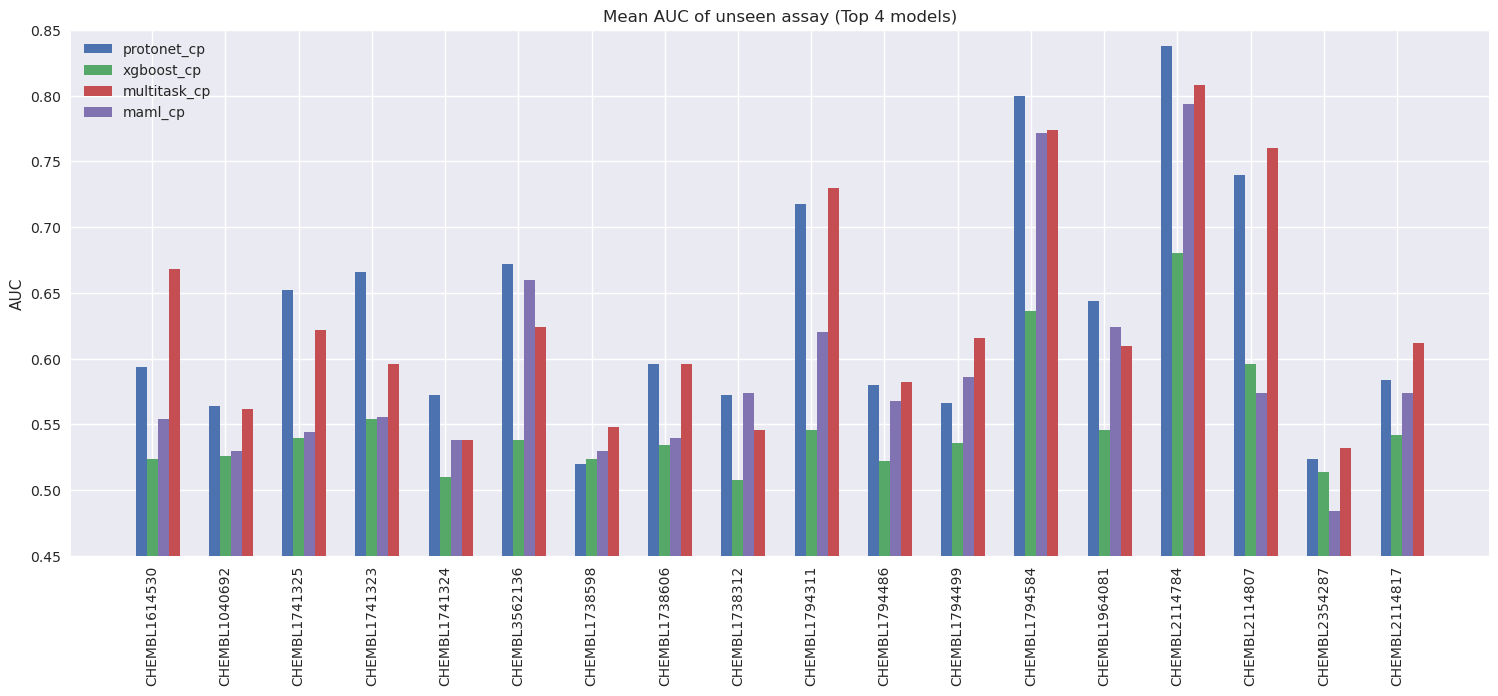
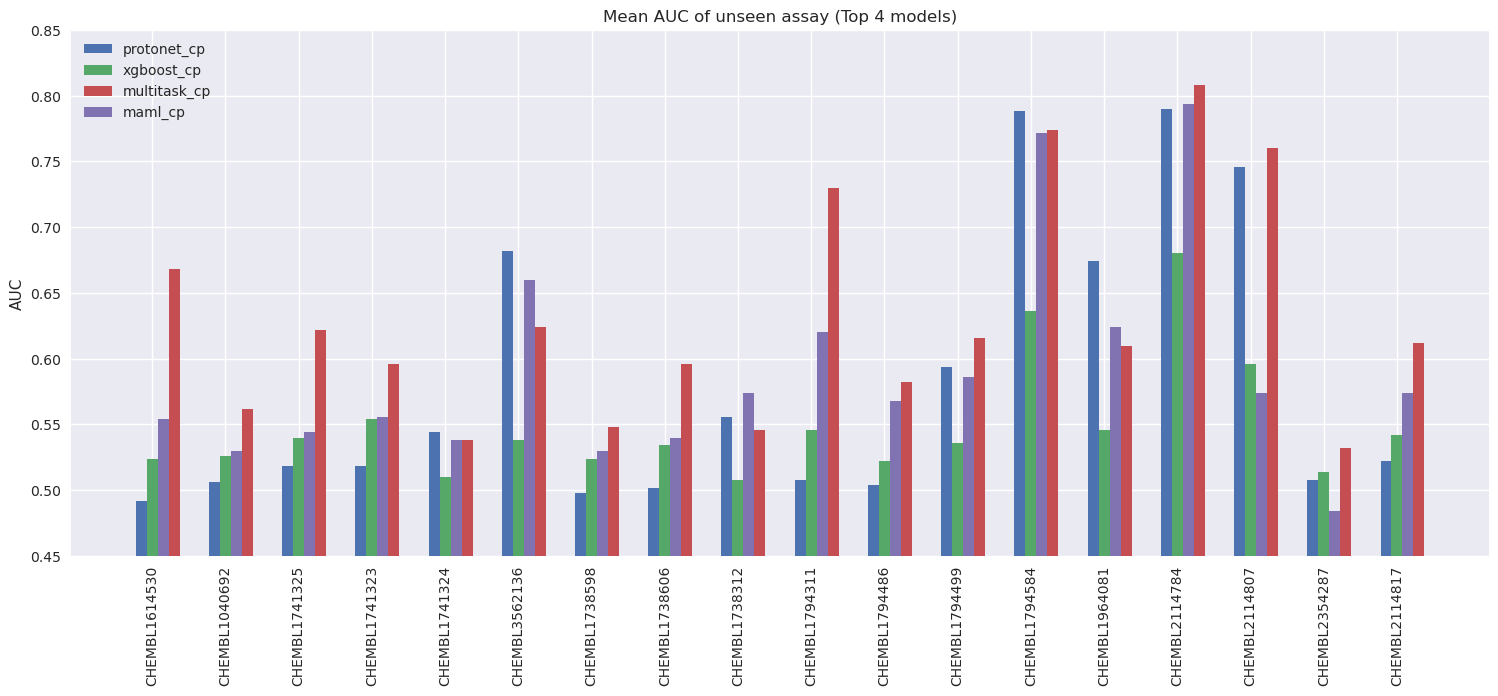
06.03.23

diff --git a/fsl_cp/train_test_protonet_cp.py b/fsl_cp/train_test_protonet_cp.py
@@ -270,7 +270,7 @@ def main(
         # Load model.
         input_shape=len(train_data[3][0])
         backbone = FNN_Relu(num_classes=512, input_shape=input_shape)
-        model = ProtoNet(backbone, dist='CosineSimilarity').to(device)
+        model = ProtoNet(backbone, dist='Euclidean').to(device)
 
         # Meta-training the protonet.
         criterion = nn.CrossEntropyLoss()

diff --git a/README.md b/README.md
@@ -1,34 +1,36 @@
 # FSL_CP
 Few-shot learning for bioassay prediction with Cell Painting dataset.
 
-Need a 'data', an 'output' and a 'logs' folder. Inside 'data' is 'output' folder.
+## Installation
+1. Clone this repository to your HOME folder.
+2. To install dependencies, simply run:
+
+    ```
+    cd FSL_CP
+
+    conda env create -f environment.yaml
+    conda activate fslcp
+    ```
+
+Note 1: It is advised to run mamba instead of conda to save ~20 mins of your life.
+
+Note 2: CUDA is not available on MacOS. If you use MacOS, delete 'nvidia' from the channel list in environment.yaml.
 
 ## Downloading data 
 
 Click on the hyperlink to download the [images](https://irods-web.zdv.uni-mainz.de/irods-rest/rest/fileContents/zdv/home/sonha/fsl_cp_images.zip?ticket=l2P9J6ConqQOLNF), [csv files](https://irods-web.zdv.uni-mainz.de/irods-rest/rest/fileContents/zdv/home/sonha/output.zip?ticket=zLF2wINy8vpK6oK), and [weights of multiask model](https://irods-web.zdv.uni-mainz.de/irods-rest/rest/fileContents/zdv/home/sonha/weights.zip?ticket=vkjYyYjMGvLIQOh).
 
-You can also download using curl or wget like below:
+Since the images are fairly big (~300G), it is a possibility to run curl or wget:
 
-#### Images
 > curl https://irods-web.zdv.uni-mainz.de/irods-rest/rest/fileContents/zdv/home/sonha/fsl_cp_images.zip?ticket=l2P9J6ConqQOLNF --output fsl_cp_images.zip
 
 > wget https://irods-web.zdv.uni-mainz.de/irods-rest/rest/fileContents/zdv/home/sonha/fsl_cp_images.zip?ticket=l2P9J6ConqQOLNF -O fsl_cp_images.zip
 
-#### Csv files
-> curl https://irods-web.zdv.uni-mainz.de/irods-rest/rest/fileContents/zdv/home/sonha/output.zip?ticket=zLF2wINy8vpK6oK --output output.zip
-
-> wget https://irods-web.zdv.uni-mainz.de/irods-rest/rest/fileContents/zdv/home/sonha/output.zip?ticket=zLF2wINy8vpK6oK -O output.zip
-
-#### Weights of multitask model
-> curl https://irods-web.zdv.uni-mainz.de/irods-rest/rest/fileContents/zdv/home/sonha/weights.zip?ticket=vkjYyYjMGvLIQOh --output weights.zip
-
-> wget https://irods-web.zdv.uni-mainz.de/irods-rest/rest/fileContents/zdv/home/sonha/weights.zip?ticket=vkjYyYjMGvLIQOh -O weights.zip
 
 #### Sample dataset
 
-In addition, we supply a small [sample](https://irods-web.zdv.uni-mainz.de/irods-rest/rest/fileContents/zdv/home/sonha/fsl_cp_sample.zip?ticket=WUTctNZlyRc6Mdw) of the dataset. One cannot run the model with only these samples, but it is useful for those who wants to have an idea what the dataset looks like.
+In addition, we supply a small [sample](https://irods-web.zdv.uni-mainz.de/irods-rest/rest/fileContents/zdv/home/sonha/fsl_cp_sample.zip?ticket=WUTctNZlyRc6Mdw) of the dataset. It is useful for those who are curious what the dataset looks like, but cannot be used to run the scripts.
 
-> curl https://irods-web.zdv.uni-mainz.de/irods-rest/rest/fileContents/zdv/home/sonha/fsl_cp_sample.zip?ticket=WUTctNZlyRc6Mdw --output fsl_cp_sample.zip
 
-> wget https://irods-web.zdv.uni-mainz.de/irods-rest/rest/fileContents/zdv/home/sonha/fsl_cp_sample.zip?ticket=WUTctNZlyRc6Mdw -O fsl_cp_sample.zip
-
+## Additional folders
+A **data**, **logs** and **weights** folder are also needed to run the necessary scripts. 
